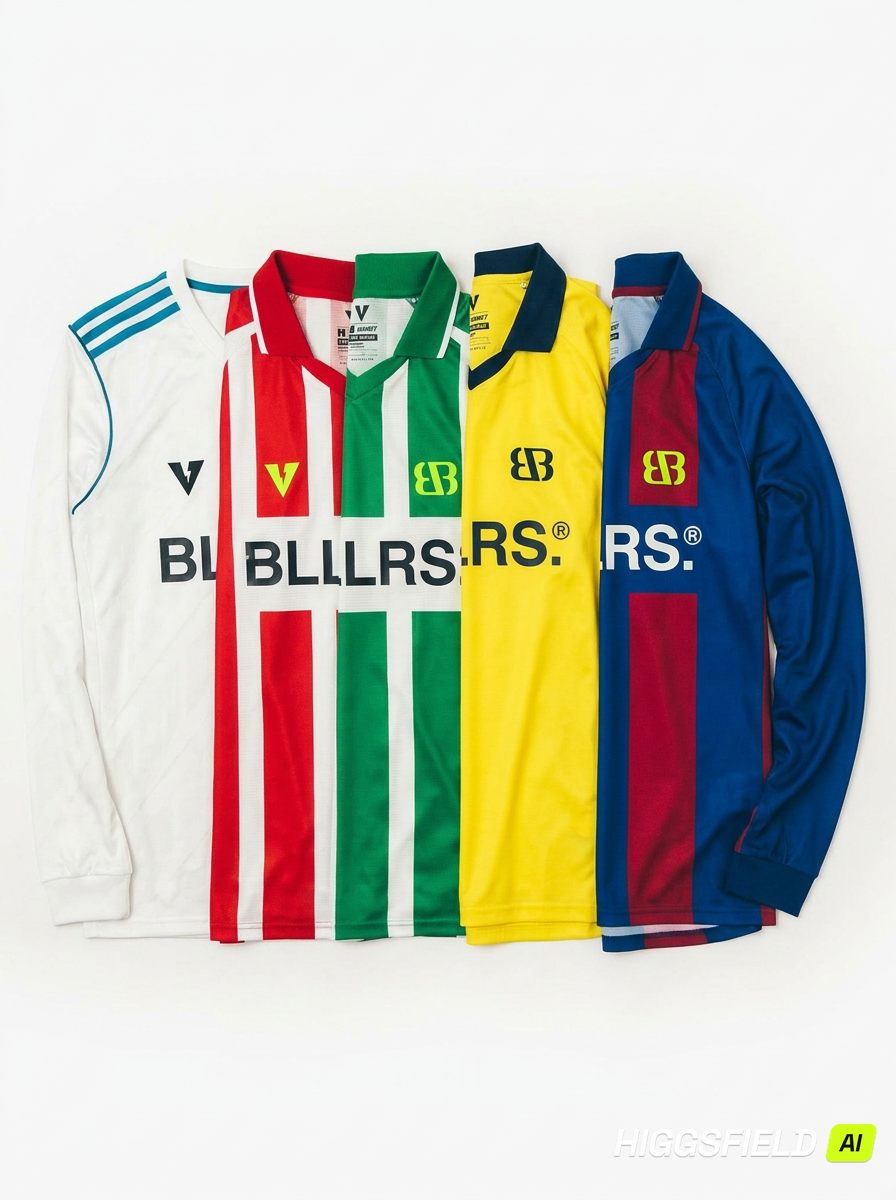
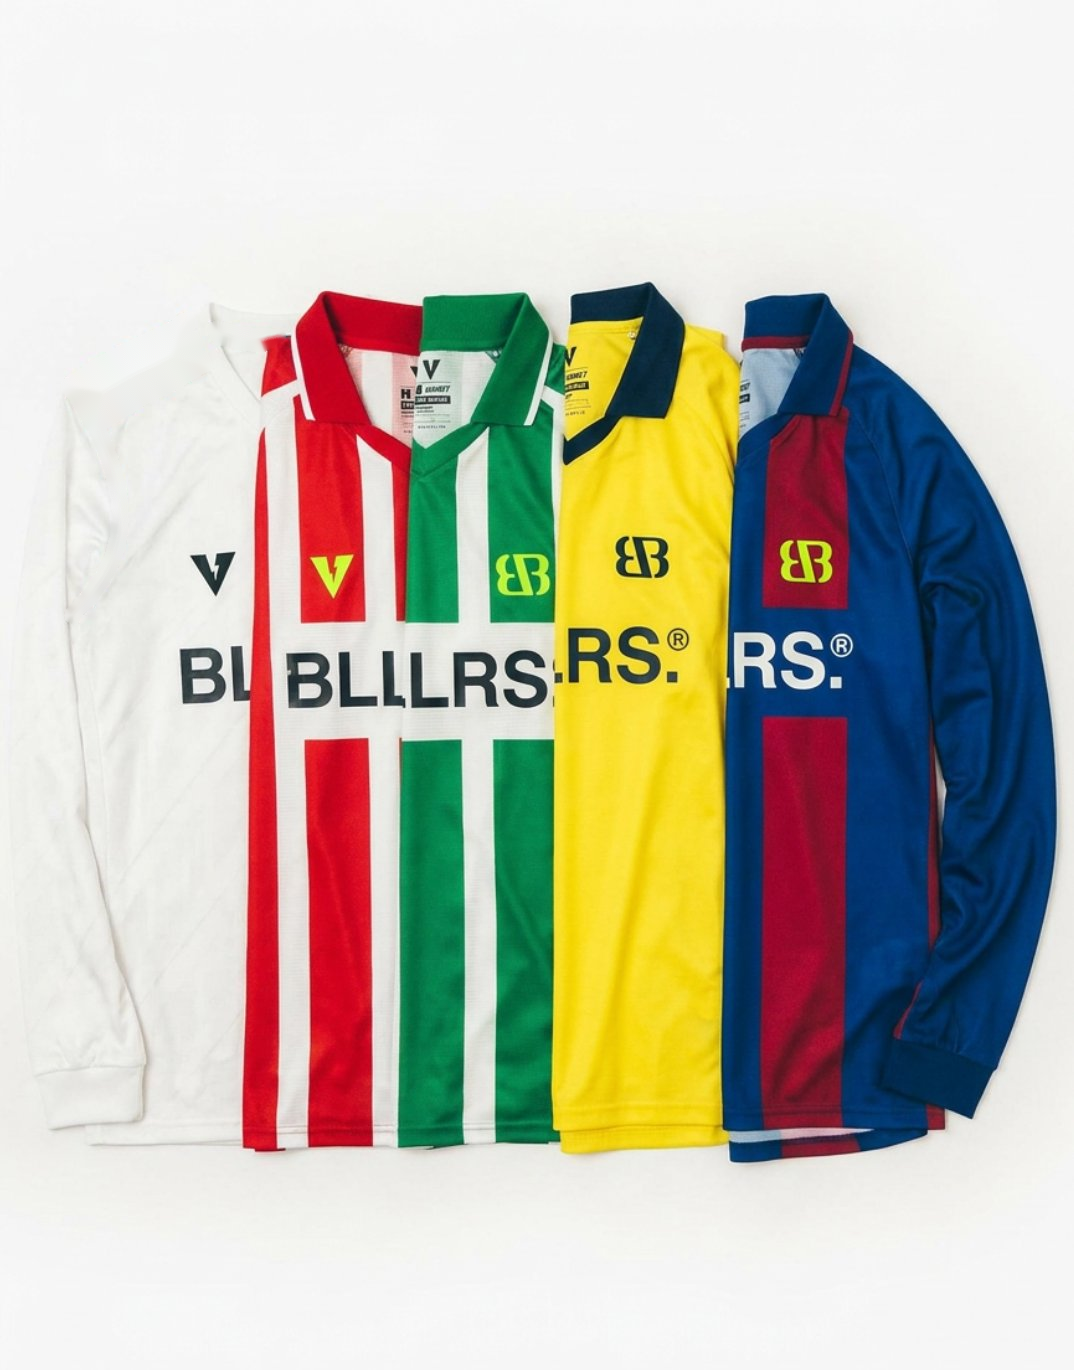
sptcc: remove LaLiga branding per Anak feedback + swap jerseys photo
- Remove LALIGA from hero tag, hero logos strip, event quote, hosted-with
- Delete section 06 LALIGA ACTIVATIONS entirely
- Renumber sections 07/08/09/10 → 06/07/08/09
- Reframe Kits section copy: replace 8 specific club names with 'visual identities of beloved, historic Spanish clubs'
- Remove club-name strip badges from kits photo wrap
- Clean LaLiga mentions from sorteo cards (LARGUERO, FALTA DIRECTA, PEGATINAS)
- Update Brand Integration: alongside SPTCC and Volt (was SPTCC and LaLiga)
- Remove LaLiga logo from Event Partners strip
- Drop dead .laliga-* CSS rules
- Swap assets/jerseys.png to new Volt photo (white kit without shoulder stripes)
- Swap assets/volt-logo.png to trimmed version from earlier session

diff --git a/index.html b/index.html
@@ -207,7 +207,7 @@ a { color: inherit; text-decoration: none; }
 .kit-feature-row .feature-text p strong { color: var(--text); font-weight: 500; }
 .kit-feature-eyebrow { font-family: 'Bebas Neue', sans-serif; font-size: 13px; letter-spacing: 0.30em; color: var(--accent); margin-bottom: 16px; }
 
-/* LALIGA — feature reverse */
+/* legacy feature-row utilities */
 .feature-row { display: grid; grid-template-columns: 1fr 1fr; gap: 60px; align-items: center; }
 .feature-row.reverse .feature-image { order: 2; }
 .feature-row.reverse .feature-text { order: 1; }
@@ -216,9 +216,6 @@ a { color: inherit; text-decoration: none; }
 .feature-row p { color: var(--muted); font-size: 16.5px; line-height: 1.65; margin-bottom: 16px; font-weight: 300; }
 .feature-row p strong { color: var(--text); font-weight: 500; }
 .feature-image { aspect-ratio: 4/3; background-size: cover; background-position: center; border: 1px solid var(--line); filter: grayscale(15%); position: relative; }
-.laliga-image { aspect-ratio: 3/4; background-image: url('assets/laliga-activation.jpg'); background-size: cover; background-position: center 30%; filter: grayscale(0%) contrast(1.05) saturate(1.1); max-height: 620px; }
-.laliga-row { align-items: stretch; gap: 50px; }
-.laliga-row .feature-text { display: flex; flex-direction: column; justify-content: center; }
 
 /* WHAT WE BRING */
 .brings-grid { display: grid; grid-template-columns: 1fr 1fr; gap: 1px; background: var(--line-soft); border: 1px solid var(--line-soft); }
@@ -238,6 +235,9 @@ a { color: inherit; text-decoration: none; }
 .prize-card .en-sub { font-family: 'Bebas Neue', sans-serif; font-size: 12px; letter-spacing: 0.22em; color: var(--muted); margin-bottom: 14px; text-transform: uppercase; }
 .prize-card .desc { font-size: 13px; color: var(--muted); line-height: 1.55; font-weight: 300; }
 .prize-card .lore { font-size: 11px; color: var(--dim); font-style: italic; margin-top: 12px; padding-top: 12px; border-top: 1px solid var(--line-soft); }
+
+/* SORTEOS & SORPRESAS — reuses .prize-card styling, owns its own grid */
+.sorteos-grid { display: grid; grid-template-columns: repeat(5, 1fr); gap: 1px; background: var(--line-soft); border: 1px solid var(--line-soft); }
 
 /* PARTNERS strip */
 .partners { padding: 80px 0; background: var(--bg-soft); }
@@ -276,6 +276,8 @@ a { color: inherit; text-decoration: none; }
   .section h2 { font-size: 48px; }
   .event-quote { font-size: 32px; }
   .numbers-grid, .brings-grid, .groups-grid, .schedule-grid, .finals-grid, .format-summary, .rules-grid, .location-strip, .event-meta-grid { grid-template-columns: 1fr 1fr; }
+  .sorteos-grid { grid-template-columns: 1fr 1fr; }
+  .sorteos-grid .prize-card:last-child { grid-column: 1 / -1; }
   .kits-row { grid-template-columns: repeat(5, 1fr); gap: 8px; }
   .venue-photos { grid-template-columns: 1fr 1fr; min-height: 480px; }
   .venue-photos .tall { grid-column: 1 / -1; grid-row: auto; min-height: 220px; }
@@ -372,8 +374,6 @@ a { color: inherit; text-decoration: none; }
 
   .feature-row h3 { font-size: 32px; }
   .feature-row p { font-size: 14px; }
-  .laliga-image { aspect-ratio: 3/4; max-height: none; }
-  .laliga-row { gap: 30px; }
 
   .brings-grid { grid-template-columns: 1fr; }
   .brings-cell { padding: 26px 22px; }
@@ -383,6 +383,8 @@ a { color: inherit; text-decoration: none; }
   .prize-card .es-title { font-size: 28px; }
   .prize-card .en-sub { font-size: 11px; }
   .prize-card .desc { font-size: 12px; }
+  .sorteos-grid { grid-template-columns: 1fr 1fr; }
+  .sorteos-grid .prize-card:last-child { grid-column: 1 / -1; }
 
   .partners { padding: 50px 0; }
   .partners-grid { gap: 28px; justify-content: center; }
@@ -416,6 +418,7 @@ a { color: inherit; text-decoration: none; }
       <a href="#format">FORMAT</a>
       <a href="#kits">KITS</a>
       <a href="#prizes">PRIZES</a>
+      <a href="#sorteos">SORTEOS</a>
       <a href="#partners">PARTNERS</a>
     </div>
     <a href="#contact" class="nav-cta">Become a partner</a>
@@ -427,7 +430,7 @@ a { color: inherit; text-decoration: none; }
   <div class="container">
     <div class="hero-grid">
       <div>
-        <div class="hero-tag">PITCH BRIEF · BALLERS × SPTCC × LALIGA</div>
+        <div class="hero-tag">PITCH BRIEF · BALLERS × SPTCC</div>
         <h1>SPTCC<br>FOOTBALL<br><span class="smaller">TOURNAMENT</span></h1>
         <p class="hero-sub">A Spanish football culture festival in Bangkok, hosted at BALLERS Bangkok on Saturday 27 June 2026. Spanish, Thai and international communities, united through the passion of the Spanish game.</p>
         <div class="hero-stats">
@@ -442,7 +445,6 @@ a { color: inherit; text-decoration: none; }
           <img class="tall" src="assets/bllrs-wordmark.png" alt="BLLRS">
           <img src="assets/ballers-bb-white.png" alt="BB">
           <img src="assets/sptcc-logo.svg" alt="SPTCC" style="filter:none; height:22px;">
-          <img src="assets/laliga-logo.svg" alt="LaLiga">
           <img class="volt-mark" src="assets/volt-logo.png" alt="Volt">
         </div>
       </div>
@@ -457,11 +459,11 @@ a { color: inherit; text-decoration: none; }
       <div class="section-num">01 · THE EVENT</div>
       <h2>The Spanish game,<br>in Bangkok.</h2>
     </div>
-    <p class="event-quote">An event designed to <span class="green">celebrate connection, competition and community</span> — while showcasing the energy, creativity and global influence of Spanish football culture, with LaLiga participating directly through on-site skill challenges, a fan booth and branded experiences.</p>
+    <p class="event-quote">An event designed to <span class="green">celebrate connection, competition and community</span> — while showcasing the energy, creativity and global influence of Spanish football culture, with on-site skill challenges, a fan booth and branded experiences across the day.</p>
     <div class="event-meta-grid">
       <div class="event-meta-cell"><div class="lbl">Date</div><div class="val">Saturday 27 June 2026</div></div>
       <div class="event-meta-cell"><div class="lbl">Venue</div><div class="val">BALLERS Bangkok — Huai Kwang</div></div>
-      <div class="event-meta-cell"><div class="lbl">Hosted with</div><div class="val">SPTCC · LaLiga · Volt</div></div>
+      <div class="event-meta-cell"><div class="lbl">Hosted with</div><div class="val">SPTCC · Volt</div></div>
     </div>
   </div>
 </section>
@@ -658,31 +660,12 @@ a { color: inherit; text-decoration: none; }
     <div class="kit-feature-row">
       <div class="feature-text">
         <div class="kit-feature-eyebrow">05 · THE KITS · BY VOLT</div>
-        <h3>Spanish club identity,<br>tournament-wide.</h3>
-        <p>Official tournament jerseys designed by <strong>Volt</strong> for BALLERS Bangkok, inspired by the iconic colorways of <strong>Villarreal, FC Barcelona, Real Madrid, Atlético Madrid, Real Betis, Racing Santander, Deportivo La Coruña and Rayo Vallecano</strong>.</p>
-        <p>Each kit combines performance, style and football culture through bold designs adapted to the spirit of the Spanish game — every player on the pitch wearing the visual identity of a Spanish club, the BLLRS wordmark across the chest as main sponsor, Volt and BALLERS Bangkok on the flanks.</p>
+        <h3>Spanish football identity,<br>tournament-wide.</h3>
+        <p>Official tournament jerseys designed by <strong>Volt</strong> for BALLERS Bangkok, drawing on the <strong>visual identities of beloved, historic Spanish clubs</strong> — colourways and silhouettes inspired by decades of Spanish football culture.</p>
+        <p>Each kit combines performance, style and football culture through bold designs adapted to the spirit of the Spanish game — every player on the pitch wearing a piece of Spanish football identity, the BLLRS wordmark across the chest as main sponsor, Volt and BALLERS Bangkok on the flanks.</p>
       </div>
       <div class="kits-photo-wrap">
-        <img src="assets/jerseys.png" alt="BLLRS × Volt tournament kits — 5 designs inspired by Spanish La Liga clubs" class="kits-photo">
-        <div class="kits-strip">
-          <span>VILLARREAL</span><span>BARÇA</span><span>MADRID</span><span>ATLÉTICO</span><span>BETIS</span><span>RACING</span><span>DEPOR</span><span>RAYO</span>
-        </div>
-      </div>
-    </div>
-  </div>
-</section>
-
-<!-- LALIGA ACTIVATIONS -->
-<section class="section">
-  <div class="container">
-    <div class="feature-row reverse laliga-row">
-      <div class="feature-image laliga-image"></div>
-      <div class="feature-text">
-        <div class="feature-eyebrow">06 · LALIGA ACTIVATIONS</div>
-        <h3>The crossbar,<br>the booth, the brand.</h3>
-        <p>LaLiga brings interactive football experiences directly to the event — <strong>skill-based challenges, fan activations, entertainment, exclusive giveaways</strong> and an official branded booth designed to celebrate the culture and excitement of Spanish football.</p>
-        <p>Crossbar challenge. Free-kick challenge. Photo wall. Live commentary. The day reads, sounds and feels like LaLiga.</p>
-        <p style="font-family:'Bebas Neue',sans-serif; font-size:22px; letter-spacing:0.06em; color:var(--accent); margin-top:24px;">La fuerza de nuestro fútbol.</p>
+        <img src="assets/jerseys.png" alt="BLLRS × Volt tournament kits — designs inspired by Spanish football identities" class="kits-photo">
       </div>
     </div>
   </div>
@@ -692,7 +675,7 @@ a { color: inherit; text-decoration: none; }
 <section class="section">
   <div class="container">
     <div class="section-header">
-      <div class="section-num">07 · WHAT BALLERS BRINGS</div>
+      <div class="section-num">06 · WHAT BALLERS BRINGS</div>
       <h2>The venue partnership.</h2>
       <p class="lede">BALLERS Bangkok hosts the tournament at a preferential partnership rate — below standard commercial rate — because the brand alignment is what we are building for.</p>
     </div>
@@ -715,7 +698,7 @@ a { color: inherit; text-decoration: none; }
       <div class="brings-cell">
         <div class="num">04</div>
         <div class="title">BRAND INTEGRATION</div>
-        <div class="desc">BALLERS Bangkok positioned alongside SPTCC and LaLiga as the official venue partner across signage and event materials.</div>
+        <div class="desc">BALLERS Bangkok positioned alongside SPTCC and Volt as the official venue partner across signage and event materials.</div>
       </div>
     </div>
   </div>
@@ -725,7 +708,7 @@ a { color: inherit; text-decoration: none; }
 <section class="section" id="prizes">
   <div class="container">
     <div class="section-header">
-      <div class="section-num">08 · SPECIAL PRIZES</div>
+      <div class="section-num">07 · SPECIAL PRIZES</div>
       <h2>The trophies behind the trophy.</h2>
       <p class="lede">Beyond the team standings, four individual awards in the spirit of Spanish football — three for the moments of brilliance, one for the lighter side of the game.</p>
     </div>
@@ -766,6 +749,59 @@ a { color: inherit; text-decoration: none; }
   </div>
 </section>
 
+<!-- SORTEOS & SORPRESAS -->
+<section class="section" id="sorteos">
+  <div class="container">
+    <div class="section-header">
+      <div class="section-num">08 · SORTEOS &amp; SORPRESAS</div>
+      <h2>The festival around the football.</h2>
+      <p class="lede">Beyond the matches and the medals — five reasons the day keeps moving from the first whistle to the last beer.</p>
+    </div>
+
+    <div class="sorteos-grid">
+      <div class="prize-card lemon">
+        <div class="num">01</div>
+        <div class="es-title">SORTEO VOLT</div>
+        <div class="en-sub">Kit Raffle</div>
+        <div class="desc">All five Volt-designed kits raffled across the afternoon. Every winner walks out wearing Spanish football culture.</div>
+        <div class="lore">Because the kit is the trophy you keep all year.</div>
+      </div>
+
+      <div class="prize-card">
+        <div class="num">02</div>
+        <div class="es-title">LARGUERO</div>
+        <div class="en-sub">Crossbar Challenge</div>
+        <div class="desc">One ball, one bar, one shot. Open to every player and every guest who steps up. Branded merch on the line for the cleanest hit.</div>
+        <div class="lore">The shot every kid practices until the lights go out.</div>
+      </div>
+
+      <div class="prize-card">
+        <div class="num">03</div>
+        <div class="es-title">FALTA DIRECTA</div>
+        <div class="en-sub">Free-Kick Challenge</div>
+        <div class="desc">Twenty meters, a wall of cones, a goalkeeper. Best curl, best dip, best decision walks away with branded merch.</div>
+        <div class="lore">Channeling Roberto Carlos against France, 1997.</div>
+      </div>
+
+      <div class="prize-card">
+        <div class="num">04</div>
+        <div class="es-title">PEGATINAS</div>
+        <div class="en-sub">Sticker Drops</div>
+        <div class="desc">BLLRS, SPTCC and Volt stickers roaming the venue all day. Find them. Take them. Wear them.</div>
+        <div class="lore">Every Spanish boot bag has earned its stickers.</div>
+      </div>
+
+      <div class="prize-card">
+        <div class="num">05</div>
+        <div class="es-title">MOMENTOS X</div>
+        <div class="en-sub">Surprise Moments</div>
+        <div class="desc">A few things we are not telling you yet. Pop-up giveaways, a guest appearance, one moment nobody sees coming.</div>
+        <div class="lore">La fiesta vive en lo que no estaba en el guion.</div>
+      </div>
+    </div>
+  </div>
+</section>
+
 <!-- PARTNERS -->
 <section class="partners" id="partners">
   <div class="container">
@@ -782,10 +818,6 @@ a { color: inherit; text-decoration: none; }
       <div class="partner-logo">
         <img src="assets/sptcc-logo.svg" alt="SPTCC">
         <span class="tag">Spanish-Thai Chamber</span>
-      </div>
-      <div class="partner-logo invert">
-        <img src="assets/laliga-logo.svg" alt="LaLiga">
-        <span class="tag">Official activations</span>
       </div>
       <div class="partner-logo partner-volt">
         <img src="assets/volt-logo.png" alt="Volt">